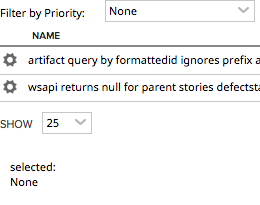
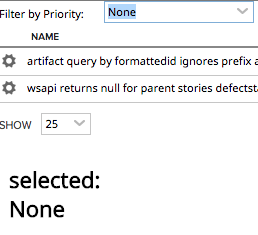
added h1 tag

Changed region(s): [[0.0, 0.0, 1.0, 0.6732], [0.031, 0.7317, 0.4031, 0.9366], [0.0, 0.5854, 0.124, 0.6439]]

diff --git a/deploy/App-external.html b/deploy/App-external.html
@@ -7,7 +7,7 @@
 
     <script type="text/javascript">
         Rally.onReady(function () {
-                Ext.define("CustomApp",{extend:"Rally.app.App",componentCls:"app",items:[{xtype:"container",itemId:"combobox-container"},{xtype:"container",itemId:"grid-container"},{xtype:"container",itemId:"text-container"}],launch:function(){this.down("#combobox-container").add({xtype:"rallyfieldvaluecombobox",itemId:"priorityCombobox",fieldLabel:"Filter by Priority:",model:"Defect",field:"Priority",context:this.getContext().getDataContext(),listeners:{ready:this._onLoad,select:this._onSelect,scope:this}})},_onLoad:function(){this.down("#text-container").add({xtype:"component",itemId:"text",html:"selected: "+this.down("rallyfieldvaluecombobox").getValue(),width:50,margin:10}),this.down("#grid-container").add({xtype:"rallygrid",columnCfgs:["Name","FormattedID","Priority","Severity"],context:this.getContext(),storeConfig:{model:"Defect",filters:[this._getPriorityFilter()]}})},_onSelect:function(){Ext.ComponentQuery.query("#text")[0].update("selected: "+this.down("rallyfieldvaluecombobox").getValue());var grid=this.down("rallygrid"),store=grid.getStore();store.clearFilter(!0),store.filter(this._getPriorityFilter())},_getPriorityFilter:function(){return{property:"Priority",operator:"=",value:this.down("#priorityCombobox").getValue()}}});
+                Ext.define("CustomApp",{extend:"Rally.app.App",componentCls:"app",items:[{xtype:"container",itemId:"combobox-container"},{xtype:"container",itemId:"grid-container"},{xtype:"container",itemId:"text-container"}],launch:function(){this.down("#combobox-container").add({xtype:"rallyfieldvaluecombobox",itemId:"priorityCombobox",fieldLabel:"Filter by Priority:",model:"Defect",field:"Priority",context:this.getContext().getDataContext(),listeners:{ready:this._onLoad,select:this._onSelect,scope:this}})},_onLoad:function(){this.down("#text-container").add({xtype:"component",itemId:"text",html:"<h1>selected: "+this.down("rallyfieldvaluecombobox").getValue()+"</h1>",width:50,margin:10}),this.down("#grid-container").add({xtype:"rallygrid",columnCfgs:["Name","FormattedID","Priority","Severity"],context:this.getContext(),storeConfig:{model:"Defect",filters:[this._getPriorityFilter()]}})},_onSelect:function(){Ext.ComponentQuery.query("#text")[0].update("<h1>selected: "+this.down("rallyfieldvaluecombobox").getValue()+"</h1>");var grid=this.down("rallygrid"),store=grid.getStore();store.clearFilter(!0),store.filter(this._getPriorityFilter())},_getPriorityFilter:function(){return{property:"Priority",operator:"=",value:this.down("#priorityCombobox").getValue()}}});
 
             Rally.launchApp('CustomApp', {
                 name:"Container Example",

diff --git a/deploy/App.html b/deploy/App.html
@@ -7,7 +7,7 @@
 
     <script type="text/javascript">
         Rally.onReady(function () {
-                Ext.define("CustomApp",{extend:"Rally.app.App",componentCls:"app",items:[{xtype:"container",itemId:"combobox-container"},{xtype:"container",itemId:"grid-container"},{xtype:"container",itemId:"text-container"}],launch:function(){this.down("#combobox-container").add({xtype:"rallyfieldvaluecombobox",itemId:"priorityCombobox",fieldLabel:"Filter by Priority:",model:"Defect",field:"Priority",context:this.getContext().getDataContext(),listeners:{ready:this._onLoad,select:this._onSelect,scope:this}})},_onLoad:function(){this.down("#text-container").add({xtype:"component",itemId:"text",html:"selected: "+this.down("rallyfieldvaluecombobox").getValue(),width:50,margin:10}),this.down("#grid-container").add({xtype:"rallygrid",columnCfgs:["Name","FormattedID","Priority","Severity"],context:this.getContext(),storeConfig:{model:"Defect",filters:[this._getPriorityFilter()]}})},_onSelect:function(){Ext.ComponentQuery.query("#text")[0].update("selected: "+this.down("rallyfieldvaluecombobox").getValue());var grid=this.down("rallygrid"),store=grid.getStore();store.clearFilter(!0),store.filter(this._getPriorityFilter())},_getPriorityFilter:function(){return{property:"Priority",operator:"=",value:this.down("#priorityCombobox").getValue()}}});
+                Ext.define("CustomApp",{extend:"Rally.app.App",componentCls:"app",items:[{xtype:"container",itemId:"combobox-container"},{xtype:"container",itemId:"grid-container"},{xtype:"container",itemId:"text-container"}],launch:function(){this.down("#combobox-container").add({xtype:"rallyfieldvaluecombobox",itemId:"priorityCombobox",fieldLabel:"Filter by Priority:",model:"Defect",field:"Priority",context:this.getContext().getDataContext(),listeners:{ready:this._onLoad,select:this._onSelect,scope:this}})},_onLoad:function(){this.down("#text-container").add({xtype:"component",itemId:"text",html:"<h1>selected: "+this.down("rallyfieldvaluecombobox").getValue()+"</h1>",width:50,margin:10}),this.down("#grid-container").add({xtype:"rallygrid",columnCfgs:["Name","FormattedID","Priority","Severity"],context:this.getContext(),storeConfig:{model:"Defect",filters:[this._getPriorityFilter()]}})},_onSelect:function(){Ext.ComponentQuery.query("#text")[0].update("<h1>selected: "+this.down("rallyfieldvaluecombobox").getValue()+"</h1>");var grid=this.down("rallygrid"),store=grid.getStore();store.clearFilter(!0),store.filter(this._getPriorityFilter())},_getPriorityFilter:function(){return{property:"Priority",operator:"=",value:this.down("#priorityCombobox").getValue()}}});
 
             Rally.launchApp('CustomApp', {
                 name:"Container Example",

diff --git a/App.js b/App.js
@@ -37,7 +37,7 @@ Ext.define('CustomApp', {
         this.down('#text-container').add({
                     xtype: 'component',
                     itemId: 'text',
-                    html: "selected: " + this.down('rallyfieldvaluecombobox').getValue(),
+                    html: "<h1>selected: " + this.down('rallyfieldvaluecombobox').getValue() + "</h1>",
                     width: 50,
                     margin: 10
         });
@@ -58,7 +58,7 @@ Ext.define('CustomApp', {
     },
 
     _onSelect: function() {
-        Ext.ComponentQuery.query('#text')[0].update("selected: " + this.down('rallyfieldvaluecombobox').getValue());
+        Ext.ComponentQuery.query('#text')[0].update("<h1>selected: " + this.down('rallyfieldvaluecombobox').getValue()+ "</h1>");
         var grid = this.down('rallygrid') ;
         var store = grid.getStore();
         store.clearFilter(true);

diff --git a/deploy/App-uncompressed.html b/deploy/App-uncompressed.html
@@ -46,7 +46,7 @@
         this.down('#text-container').add({
                     xtype: 'component',
                     itemId: 'text',
-                    html: "selected: " + this.down('rallyfieldvaluecombobox').getValue(),
+                    html: "<h1>selected: " + this.down('rallyfieldvaluecombobox').getValue() + "</h1>",
                     width: 50,
                     margin: 10
         });
@@ -67,7 +67,7 @@
     },
 
     _onSelect: function() {
-        Ext.ComponentQuery.query('#text')[0].update("selected: " + this.down('rallyfieldvaluecombobox').getValue());
+        Ext.ComponentQuery.query('#text')[0].update("<h1>selected: " + this.down('rallyfieldvaluecombobox').getValue()+ "</h1>");
         var grid = this.down('rallygrid') ;
         var store = grid.getStore();
         store.clearFilter(true);
